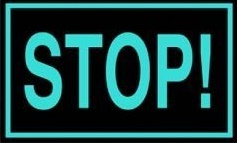
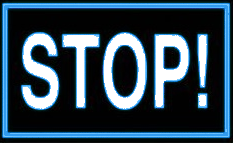
Modified everything

diff --git a/main.py b/main.py
@@ -56,6 +56,7 @@ def main():
             Button(650, 770, 450, 80, WHITE, "B","B, " + quiz[rnd].option_B),
             Button(100, 880, 450, 80, WHITE, "C","C, " + quiz[rnd].option_C),
             Button(650, 880, 450, 80, WHITE, "D","D, " + quiz[rnd].option_D),
+            Button(105, 535, 140, 60, BLUE, "stop"),
             Ellipse(779, 535, 100, 65, "fifty"),
             Ellipse(889, 535, 100, 65, "phone"),
             Ellipse(999, 535, 100, 65, "audience")
@@ -63,6 +64,8 @@ def main():
 
         for obj in objects:
             obj.draw(screen)
+
+        screen.blit(STOP, (100, 530))
 
         screen.blit(FIFTYFIFTY, (780, 530))
         if not ellipse.fifty:

diff --git a/button.py b/button.py
@@ -1,5 +1,6 @@
 import pygame
 from constants import *
+from main import gameover
 
 class Button():
     def __init__(self, x, y, width, height, outline, type, text = "", pushed = False):
@@ -48,6 +49,10 @@ class Button():
 
     def update(self):
         if self.isOver(pygame.mouse.get_pos()):
-            if self.outline == WHITE:
-                self.answer()
-                self.pushed = True
+            if self.type != "stop":
+                if self.outline == WHITE:
+                    self.answer()
+                    self.pushed = True
+            else:
+                print("Game over!")
+                gameover()

diff --git a/constants.py b/constants.py
@@ -8,6 +8,8 @@ FIFTYFIFTY =  pygame.transform.scale(pygame.image.load("images/Classic5050.webp"
 PAF = pygame.transform.scale(pygame.image.load("images/ClassicPAF.webp"), (97,72))
 ATA = pygame.transform.scale(pygame.image.load("images/ClassicATA.webp"), (97,72))
 
+STOP = pygame.transform.scale(pygame.image.load("images/stop.png"), (150,70))
+
 WHITE = (255, 255, 255)
 RED = (255, 0, 0)
 BLUE = (0,128,255)
